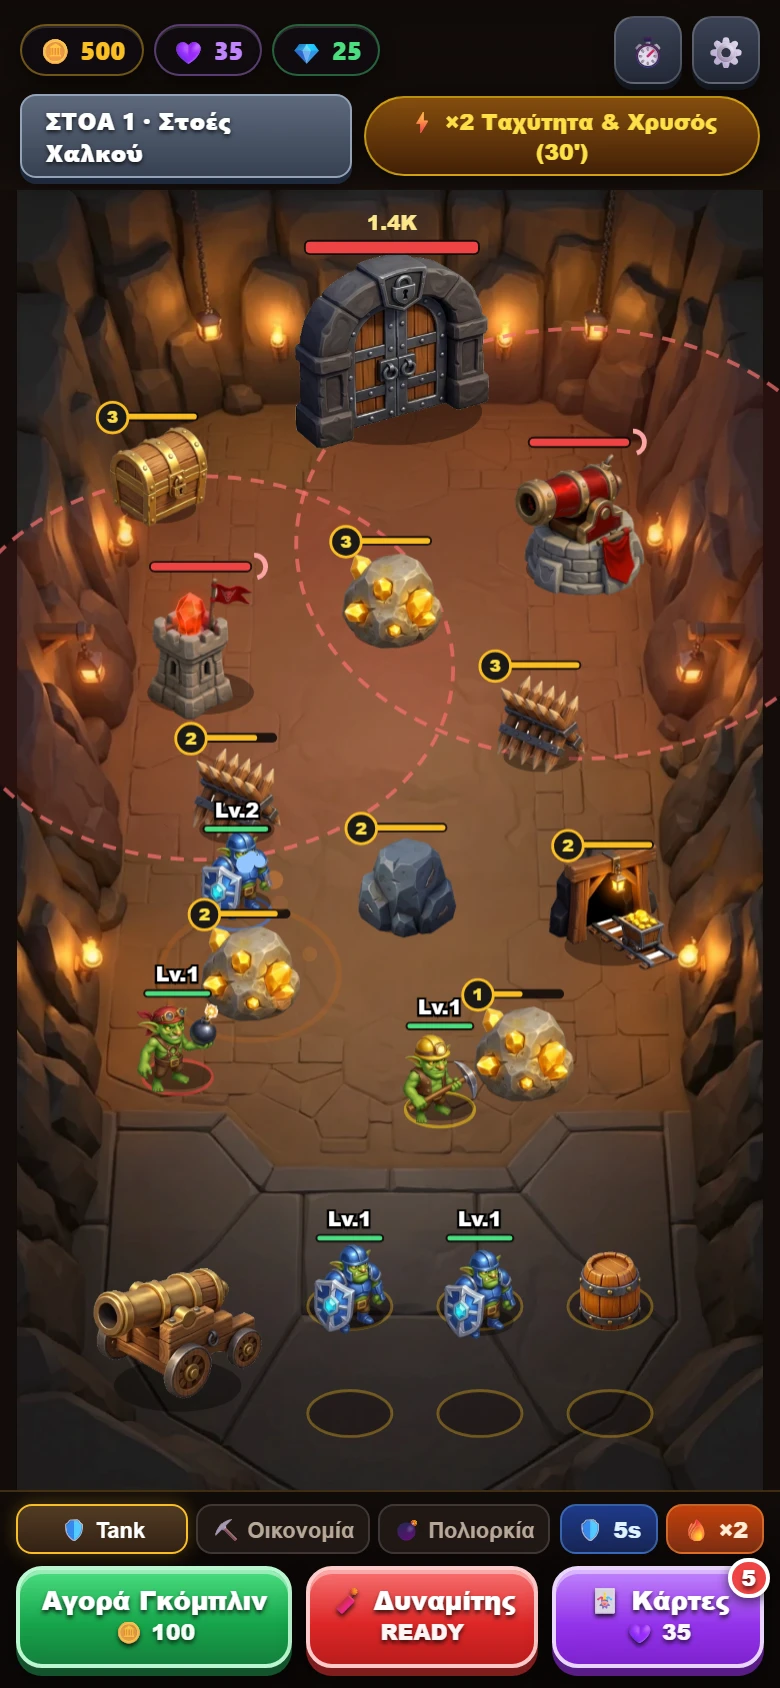
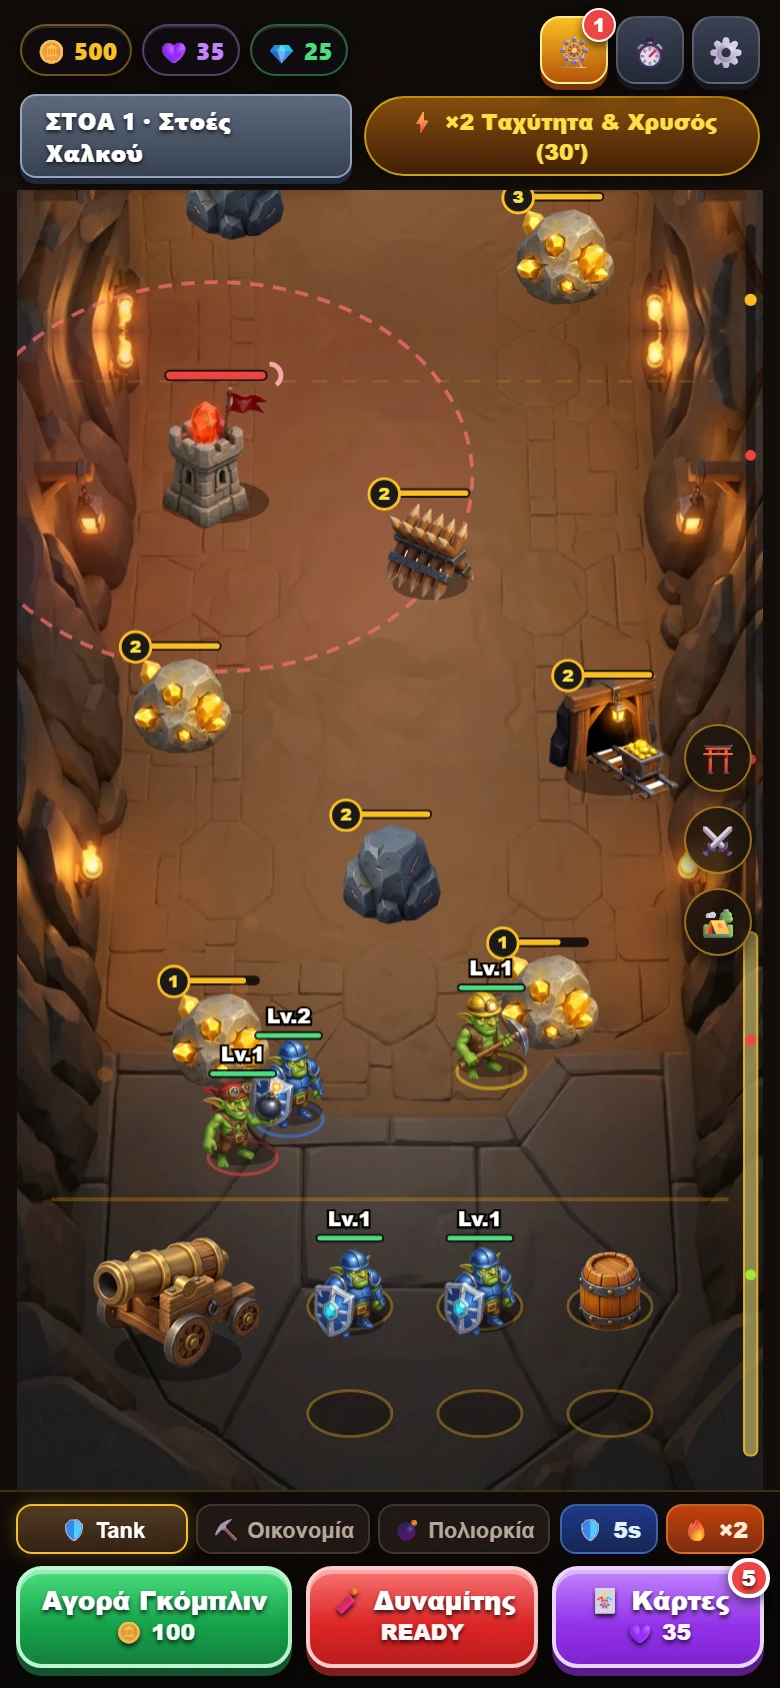
Publish v1.1.0 showcase, version manifest & screenshots

diff --git a/README.md b/README.md
@@ -21,7 +21,7 @@
 </p>
 
 <p align="center">
-  <img src="https://img.shields.io/badge/Version-v1.0.0-brightgreen" alt="Version v1.0.0" />
+  <img src="https://img.shields.io/badge/Version-v1.1.0-brightgreen" alt="Version v1.1.0" />
   <img src="https://img.shields.io/badge/Package-app.jemangr.bastionbreaker-blue" alt="Package app.jemangr.bastionbreaker" />
   <img src="https://img.shields.io/badge/Platform-Android%208.0%2B-purple" alt="Android 8.0+" />
   <img src="https://img.shields.io/badge/Languages-EL%20%7C%20EN-gold" alt="Languages EL | EN" />
@@ -40,14 +40,14 @@ Always get the latest official Android APK build from this permanent link:
 
 ---
 
-## ✨ Key Highlights (`v1.0.0`)
+## ✨ Key Highlights (`v1.1.0`)
 
-- ⛏ **Idle-Merge Mining + Barrel Cannon:** Tap supply barrels, buy units, and drag matching goblins (`Lv.N + Lv.N → Lv.N+1`) to upgrade and heal 100% HP mid-combat.
-- 🛡 **3 Goblin Classes:**
-  - **Shield Tank:** High HP & Taunt pulling enemy tower fire and blocking advancing Knights.
-  - **Miner:** `×3` excavation damage on gold veins, rocks, chests & mineshafts.
-  - **Siege Bomber:** Ranged splash bombs dealing `×3` damage to towers, barricades, Knights & Boss Gates.
+- 📜 **Vertical-Scrolling Multi-Zone Caverns:** Swipe smoothly from your Siege Camp through 3 fortified subterranean zones up to the Boss Gate, with touch inertia, edge auto-scroll when dragging goblins, a vertical depth minimap, and quick-jump camera buttons (`⛩` / `⚔` / `🏕`).
+- ⛏ **Idle-Merge Mining + Barrel Cannon:** Tap supply barrels, buy units, and drag matching goblins (`Lv.N + Lv.N → Lv.N+1`) to upgrade and heal 100% HP mid-combat across deeper, longer-paced Mines.
+- 🎡 **Ad-Powered Lucky Roulette:** Claim 1 free daily spin or watch Demo Rewarded Ads to spin the 8-prize Fortune Wheel for Gold, Purple Elixir, Gems, Bonus High-Level Goblins, `×2` Boost, and Skill Refills!
+- 🛡 **3 Goblin Classes & Deeper Combat Balance:** *Shield Tank* (`Taunt`), *Miner* (`×3` excavation), and *Siege Bomber* (`×2.3` splash), fighting against guarded Boss Gates (`-50%` Gate Shield while ≥2 towers stand).
 - 🗼 **Tower Flip & Marching Knight Waves:** Every enemy tower (Archer, Cannon, Ice, Tesla) shoots & deploys Iron Legion Knight waves — destroy a tower to flip it emerald green into a Healing, Bombardment, Haste, or `×2` Gold support tower!
+- 🔊 **Warm Mastered Combat Audio:** Filtered & throttled Web Audio SFX with `DynamicsCompressor` limiting and cozy cavern harp music.
 - 🃏 **5 Underground Realms, Cards & Offline Idle:** Progress through *Copper Tunnels* to *Iron King's Citadel*, upgrade Cards with Purple Elixir, automate mineshafts, and earn offline gold.
 - ⏱ **Daily 90" Tower Raid:** Compete on a globally seeded daily siege layout for 🥉/🥈/🥇 medals.
 - 🔄 **Automatic 6-Hour Update Checker:** Checks `version.json` silently every 6 hours + one-tap check in Settings, with an **Our Other Apps** link to [jemangr.app](https://jemangr.app).
@@ -61,9 +61,9 @@ Always get the latest official Android APK build from this permanent link:
 | :---: | :---: | :---: |
 | <img src="screenshots/bb_01_siege_gameplay.png" width="220" alt="Mining, Merge & Siege" /> | <img src="screenshots/bb_02_tower_flip_waves.png" width="220" alt="Tower Flip & Knight Waves" /> | <img src="screenshots/bb_03_cards_upgrades.png" width="220" alt="Elixir Cards & Upgrades" /> |
 
-| 4. Daily 90" Tower Raid | 5. Settings & Other Apps (`jemangr.app`) |
-| :---: | :---: |
-| <img src="screenshots/bb_04_daily_raid.png" width="220" alt="Daily 90s Tower Raid" /> | <img src="screenshots/bb_05_settings_apps.png" width="220" alt="Settings & Our Other Apps" /> |
+| 4. Ad-Powered Lucky Roulette | 5. Daily 90" Tower Raid | 6. Settings & Other Apps (`jemangr.app`) |
+| :---: | :---: | :---: |
+| <img src="screenshots/bb_06_lucky_wheel.png" width="220" alt="Ad-Powered Lucky Roulette" /> | <img src="screenshots/bb_04_daily_raid.png" width="220" alt="Daily 90s Tower Raid" /> | <img src="screenshots/bb_05_settings_apps.png" width="220" alt="Settings & Our Other Apps" /> |
 
 ---
 
